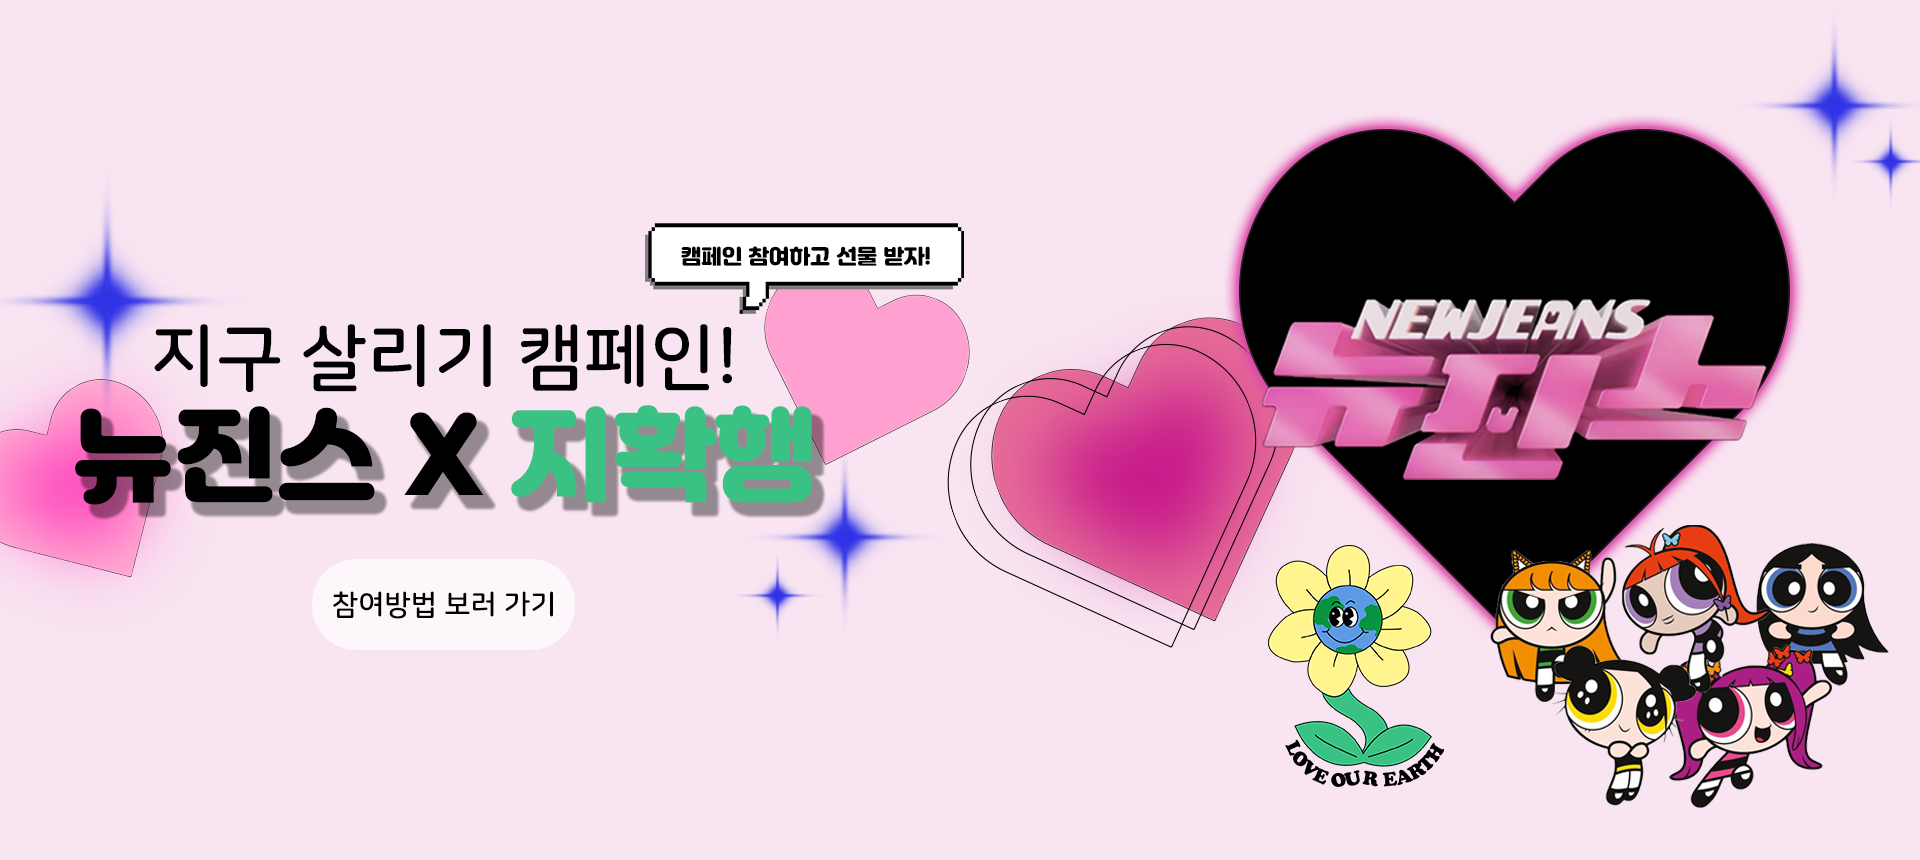
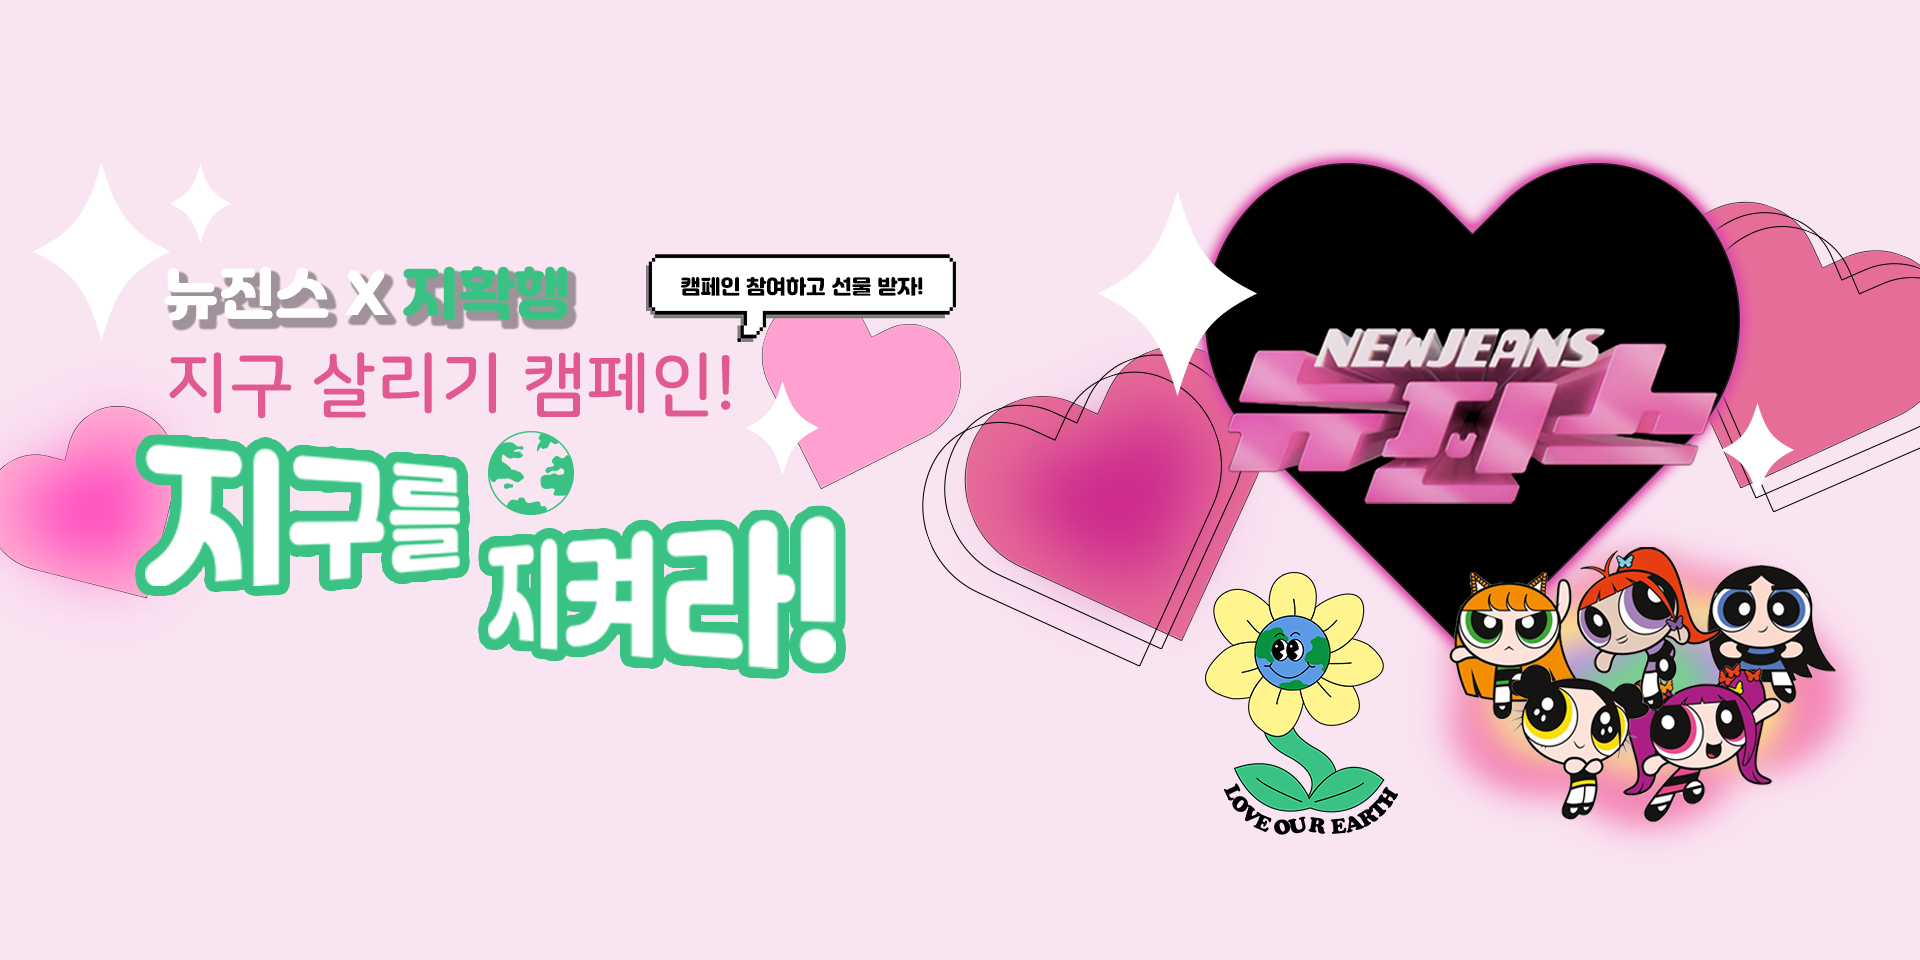
feat : 사진 바꾸기, 이벤트 이미지 넣기, 헤더 수정 (정예빈)

Changed region(s): [[0.0, 0.1209, 1.0, 0.9372], [0.9375, 0.0605, 1.0, 0.2116]]

diff --git a/index.html b/index.html
@@ -355,14 +355,20 @@
 
       <!-- 이벤트 -->
       <section class="event section">
-        <div class="inner"></div>
+        <div class="inner">
+          <!-- <div class="event-img-wrap">
+            <img src="images/campaign_event.png" alt="캠페인 이벤트 참여방법">
+            <button class="event-btn" id="eventBtn">참여하기</button>
+          </div> -->
+        </div>
       </section>
 
       <!-- 하단 -->
-      <footer class="footer section">
+      <footer class="footer">
         <div class="inner"></div>
       </footer>
     </div>
+    
   </body>
 
   <!-- Google Tag Manager (noscript) -->

diff --git a/css/visual.css b/css/visual.css
@@ -7,7 +7,7 @@
     width: 100%;
     max-width: 1920px;
     margin: 0 auto;
-    height: 860px;
+    height: 960px;
 }
 /* Swiper */
 .swiper {
@@ -23,7 +23,7 @@
     background-size: cover;
 }
 .visual-bg-2 {
-    background: url("../images/goods_banner.jpg") no-repeat center;
+    background: url("../images/goods_banner.png") no-repeat center;
     background-size: cover;
 }
 

diff --git a/css/header.css b/css/header.css
@@ -1,16 +1,18 @@
 /* 상단 */
 .header {
-  background: #fff
+  width: 100%;
+  height: auto;
+  background-color: transparent;
 }
 .header .inner {
   width: 100%;
+  height: 100px;
   max-width: 1920px;
   padding: 0 20px;
   margin: 0 auto;
   display: flex;
   justify-content: space-between;
   align-items: center;
-  height: 100px;
 }
 .logo img {
   width: 230px;
